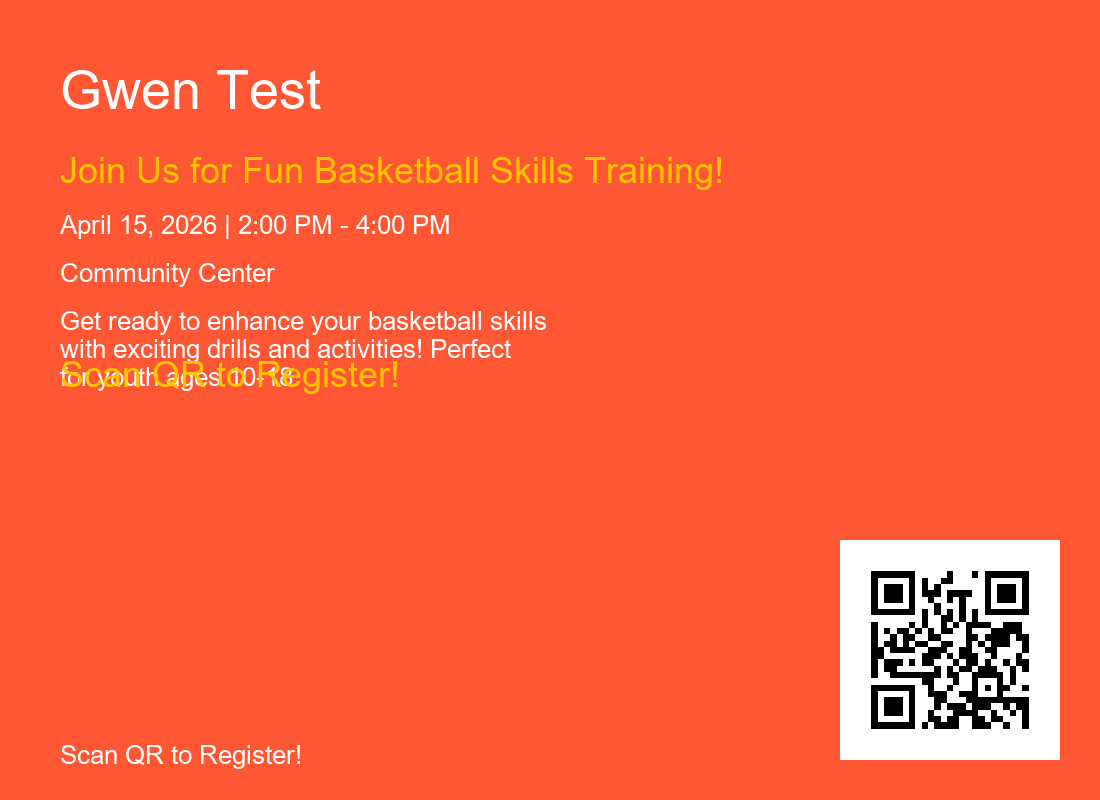
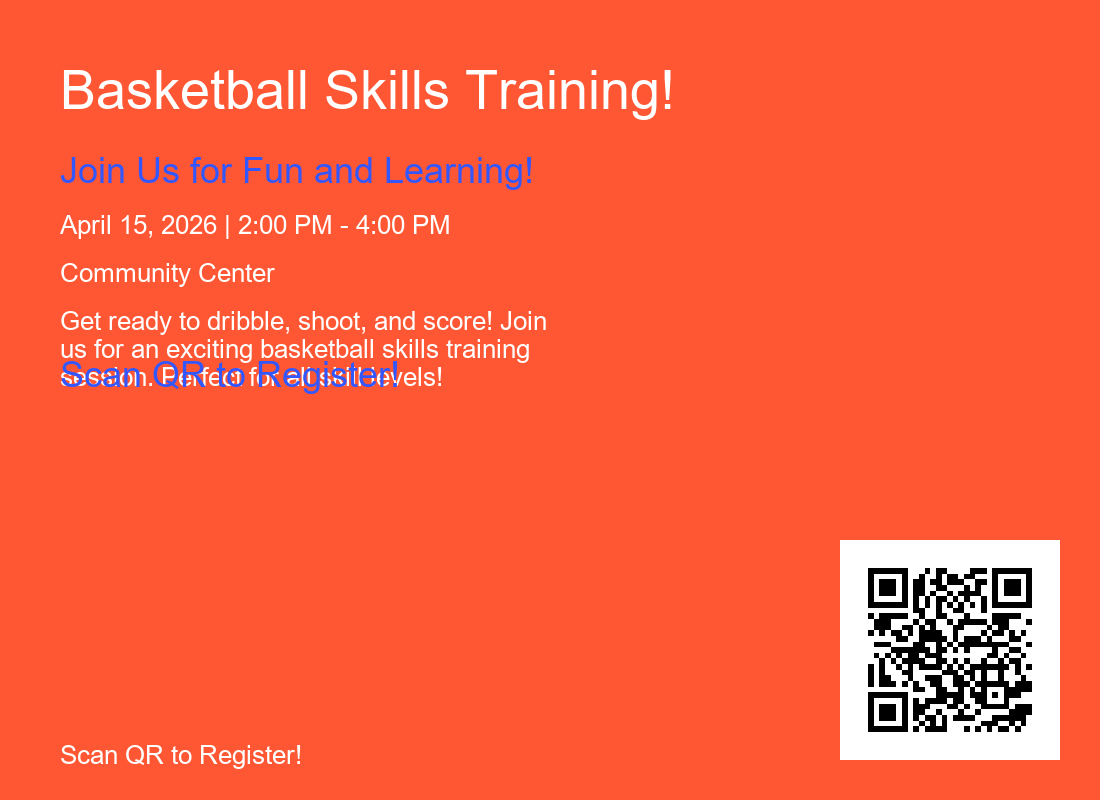
running where the app is updated automatically instead of copy paste for reg form

diff --git a/python-langchain/app_copy_2.py b/python-langchain/app_copy_2.py
@@ -52,6 +52,46 @@ def print_banner(text: str, symbol: str = "="):
     print(line)
 
 
+def generate_standardized_form(event_details: Dict) -> dict:
+    """
+    Generate the standardized youth registration form with event details.
+    
+    Form fields are fixed and consistent across all events.
+    Only event details (name, date, time, location) change.
+    
+    Args:
+        event_details: Dictionary with event info (event_name, event_date, event_time, location, etc.)
+    
+    Returns:
+        Dictionary with complete form schema including fields and event details
+    """
+    event_name = event_details.get("event_name", "Youth Event")
+    
+    return {
+        "title": f"{event_name} Registration Form",
+        "description": f"Register for {event_name}. Please provide all required information.",
+        "event_details": {
+            "event_name": event_name,
+            "date": event_details.get("event_date", "TBD"),
+            "time": event_details.get("event_time", "TBD"),
+            "location": event_details.get("location", "TBD"),
+            "max_participants": event_details.get("max_participants", 30),
+            "age_range": event_details.get("age_range", "12-17")
+        },
+        "fields": [
+            {"name": "youth_first_last_name", "label": "Youth First and Last Name", "type": "text", "required": True},
+            {"name": "youth_age", "label": "Youth Age", "type": "number", "required": True},
+            {"name": "parent_first_last_name", "label": "Parent/Guardian First and Last Name", "type": "text", "required": True},
+            {"name": "parent_phone", "label": "Parent/Guardian Phone Number", "type": "tel", "required": True},
+            {"name": "transportation_needed", "label": "Need transportation?", "type": "select", "required": True, "options": [{"label": "Yes", "value": "yes"}, {"label": "No", "value": "no"}]},
+            {"name": "special_needs", "label": "Special accommodations? (If yes, specify)", "type": "textarea", "required": False},
+            {"name": "consent", "label": "I give permission for my child to participate.", "type": "checkbox", "required": True},
+            {"name": "signature", "label": "Parent/Guardian Signature", "type": "text", "required": True},
+            {"name": "date", "label": "Date", "type": "date", "required": True}
+        ]
+    }
+
+
 # --- TOOL CANDIDATE ---
 # This function is a good candidate to expose as a tool:
 # - Input: flyer_data (dict with required fields), qr_path (path to QR PNG)
@@ -206,86 +246,32 @@ async def form_generation_node(state: State) -> Command[Literal["flyer_generatio
     
     print(f"🔗 Form will link to: {form_url}")
     
-    # Create writer agent with form-specific prompt
-    form_task_prompt = f"""
-    Design a mobile-friendly registration form for this youth event.
-    
-    TASK: Create a form JSON schema with these required fields:
-    {{
-      "title": "string",
-      "description": "string", 
-      "fields": [{{"name": "str", "label": "str", "type": "text|number|tel|textarea|select", "required": bool, "options": []}}]
-    }}
-    
-    REQUIREMENTS:
-    - Title: "{event_details.get('event_name', 'Event')} Registration"
-    - Description: Brief description of the event
-    - Include fields for: youth_first_name, youth_last_name, youth_age, parent_first_name, parent_last_name, parent_phone, youth_phone (optional), special_accommodations, transportation_needed
-    - Make it mobile-friendly and easy to fill
-    
-    STEP 1: Design the complete form JSON schema (make sure all fields are valid)
-    
-    STEP 2: Call the build_registration_form tool with:
-    - llm_output: the complete JSON schema as a string
-    - form_url: "{form_url}"
-    
-    Event Details:
-    {json.dumps(event_details, indent=2)}
-    """
-    
-    form_agent = create_agent(llm, tools=[build_registration_form], system_prompt=form_task_prompt)
-    response = await form_agent.ainvoke({"messages": truncated_messages})
-    
-    # Extract form schema and QR path from tool results
-    form_schema = None
-    qr_path = None
-    form_output = None
-    
-    try:
-        from langchain_core.messages import ToolMessage
-        for msg in response["messages"]:
-            if isinstance(msg, ToolMessage):
-                content = msg.content
-                if isinstance(content, dict) and "form_schema" in content:
-                    form_schema = content.get("form_schema")
-                    qr_path = content.get("qr_path")
-                    break
-                elif isinstance(content, str):
-                    try:
-                        parsed = json.loads(content)
-                        if "form_schema" in parsed:
-                            form_schema = parsed.get("form_schema")
-                            qr_path = parsed.get("qr_path")
-                            break
-                    except:
-                        pass
-            elif msg.type == "ai":
-                form_output = msg.content
-    except:
-        pass
+    # Generate the standardized form with event details
+    form_schema = generate_standardized_form(event_details)
     
     # Display form schema
-    if form_schema:
-        print("\n📋 FORM SCHEMA GENERATED:")
-        print("="*60)
-        print(json.dumps(form_schema, indent=2))
-        print("="*60)
-    elif form_output:
-        print("\n📋 FORM OUTPUT (for reference):")
-        print("="*60)
-        print(form_output[:500] + ("..." if len(form_output) > 500 else ""))
-        print("="*60)
+    print("\n📋 FORM SCHEMA GENERATED:")
+    print("="*60)
+    print(json.dumps(form_schema, indent=2))
+    print("="*60)
     
-    if qr_path:
-        print(f"✅ Form generated with QR code: {qr_path}")
-    else:
-        print("⚠ QR code path not extracted, will generate new one")
-        qr_path = create_qr_png(form_url)
+    # Save form schema to file for form_app.py to load automatically
+    form_file_path = os.path.join(os.path.dirname(__file__), "current_event_form.json")
+    with open(form_file_path, 'w') as f:
+        json.dump(form_schema, f, indent=2)
+    
+    print(f"\n💾 Form schema saved to: {form_file_path}")
+    print("   form_app.py will automatically load this!")
+    
+    # Generate QR code
+    qr_path = create_qr_png(form_url)
+    
+    print(f"✅ Form generated with QR code: {qr_path}")
     
     print("\n➡ Moving to flyer generation...")
     return Command(
         update={
-            "messages": response["messages"],
+            "messages": truncated_messages,
             "event_details": event_details,
             "form_url": form_url,
             "qr_path": qr_path

diff --git a/python-langchain/form_app.py b/python-langchain/form_app.py
@@ -13,45 +13,58 @@ import os
 # This app dynamically renders youth registration forms generated by app_copy_2.py
 # 
 # USAGE:
-# 1. Run app_copy_2.py with task_type='youth_registration_form'
-# 2. Copy the generated form JSON from its output
-# 3. Paste into the form_json variable below (or update at runtime via sidebar)
+# 1. Run app_copy_2.py with your event details (fully automated workflow)
+# 2. form_app.py will automatically load the generated form from current_event_form.json
+# 3. No manual copying needed!
 # ============================================================================
 
-# Default: Spring Youth Basketball Clinic Registration Form
-# This is populated from app_copy_2.py output (youth_registration_form task)
-form_json = '''{
-  "title": "Spring Youth Basketball Clinic Registration Form",
-  "description": "Fun skills clinic with drills, games, and faith talks. Includes transportation help and special needs options.",
-  "event_details": {
-    "event_name": "Spring Youth Basketball Clinic",
-    "date": "April 15-17, 2026",
-    "time": "6-8 PM daily",
-    "location": "Louisville Community Church Gym",
-    "max_participants": 20,
-    "age_range": "12-17"
-  },
-  "fields": [
-    {"name": "youth_first_last_name", "label": "Youth First and Last Name", "type": "text", "required": true},
-    {"name": "youth_age", "label": "Youth Age", "type": "number", "required": true},
-    {"name": "parent_first_last_name", "label": "Parent/Guardian First and Last Name", "type": "text", "required": true},
-    {"name": "parent_phone", "label": "Parent/Guardian Phone Number", "type": "tel", "required": true},
-    {"name": "transportation_needed", "label": "Need transportation?", "type": "select", "required": true, "options": [{"label": "Yes", "value": "yes"}, {"label": "No", "value": "no"}]},
-    {"name": "special_needs", "label": "Special accommodations? (If yes, specify)", "type": "textarea", "required": false},
-    {"name": "consent", "label": "I give permission for my child to participate.", "type": "checkbox", "required": true},
-    {"name": "signature", "label": "Parent/Guardian Signature", "type": "text", "required": true},
-    {"name": "date", "label": "Date", "type": "date", "required": true}
-  ]
-}'''
+# Load form from file (auto-generated by app_copy_2.py)
+def load_form_schema():
+    """Load form schema from current_event_form.json or use default fallback."""
+    form_file = "current_event_form.json"
+    
+    if os.path.exists(form_file):
+        try:
+            with open(form_file, 'r') as f:
+                return json.load(f)
+        except Exception as e:
+            st.warning(f"⚠ Failed to load form from {form_file}: {e}")
+            st.info("Using default form. Run app_copy_2.py to generate a fresh event form.")
+            return get_default_form()
+    else:
+        st.info(f"📝 No form found. Run app_copy_2.py first to generate current_event_form.json")
+        return get_default_form()
 
-@st.cache_data
-def load_form(form_json_str: str):
-    """Load and validate form JSON schema."""
-    return json.loads(form_json_str)
+def get_default_form():
+    """Fallback default form if no file exists."""
+    return {
+        "title": "Youth Event Registration Form",
+        "description": "Register for our youth event. Please provide all required information.",
+        "event_details": {
+            "event_name": "Youth Event",
+            "date": "TBD",
+            "time": "TBD",
+            "location": "TBD",
+            "max_participants": 30,
+            "age_range": "12-17"
+        },
+        "fields": [
+            {"name": "youth_first_last_name", "label": "Youth First and Last Name", "type": "text", "required": True},
+            {"name": "youth_age", "label": "Youth Age", "type": "number", "required": True},
+            {"name": "parent_first_last_name", "label": "Parent/Guardian First and Last Name", "type": "text", "required": True},
+            {"name": "parent_phone", "label": "Parent/Guardian Phone Number", "type": "tel", "required": True},
+            {"name": "transportation_needed", "label": "Need transportation?", "type": "select", "required": True, "options": [{"label": "Yes", "value": "yes"}, {"label": "No", "value": "no"}]},
+            {"name": "special_needs", "label": "Special accommodations? (If yes, specify)", "type": "textarea", "required": False},
+            {"name": "consent", "label": "I give permission for my child to participate.", "type": "checkbox", "required": True},
+            {"name": "signature", "label": "Parent/Guardian Signature", "type": "text", "required": True},
+            {"name": "date", "label": "Date", "type": "date", "required": True}
+        ]
+    }
 
 st.set_page_config(page_title="Youth Registration", layout="wide")
 
-form_data = load_form(form_json)
+# Automatically load form schema from file (or use default)
+form_data = load_form_schema()
 
 # Extract event details safely (with fallback defaults)
 event_details = form_data.get("event_details", {})
@@ -253,4 +266,4 @@ with st.sidebar:
         st.info("No event details available")
     
     st.markdown("---")
-    st.caption("💡 To use a different form generated by app_copy_2.py, replace the `form_json` variable at the top of this script.")
+    st.caption("� Automatic Updates: Run app_copy_2.py to generate a new event form. This app will automatically load it from current_event_form.json")
